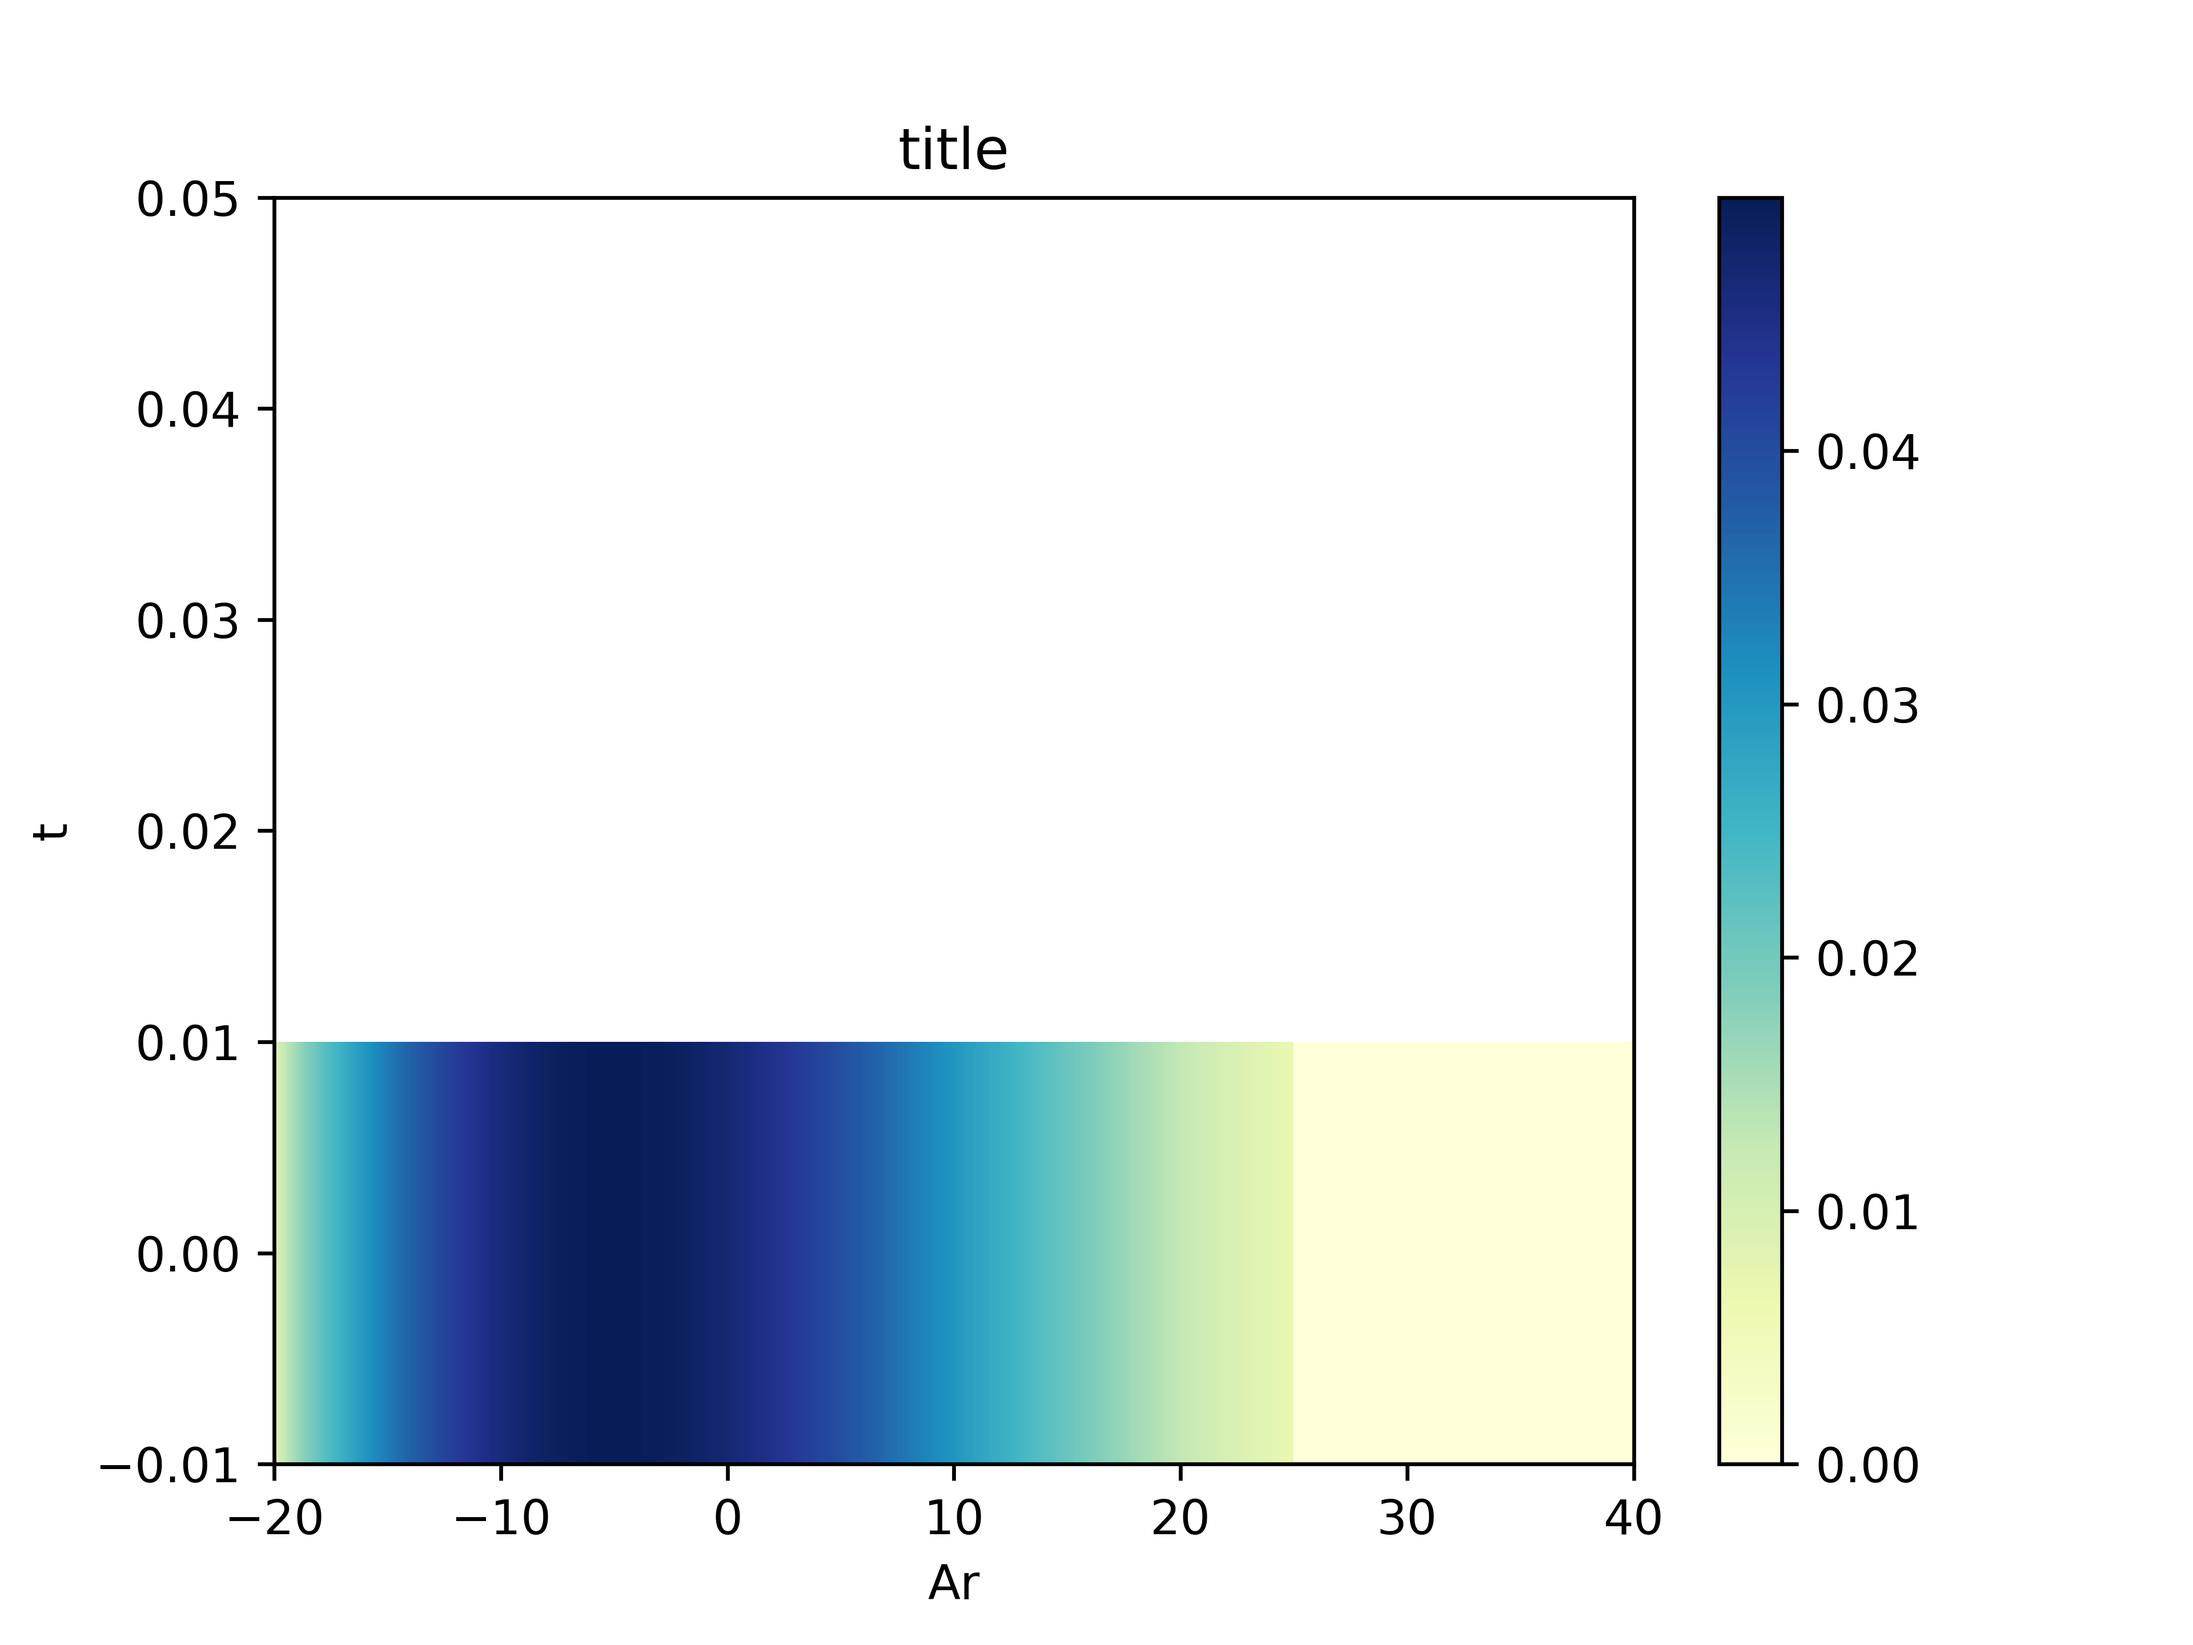
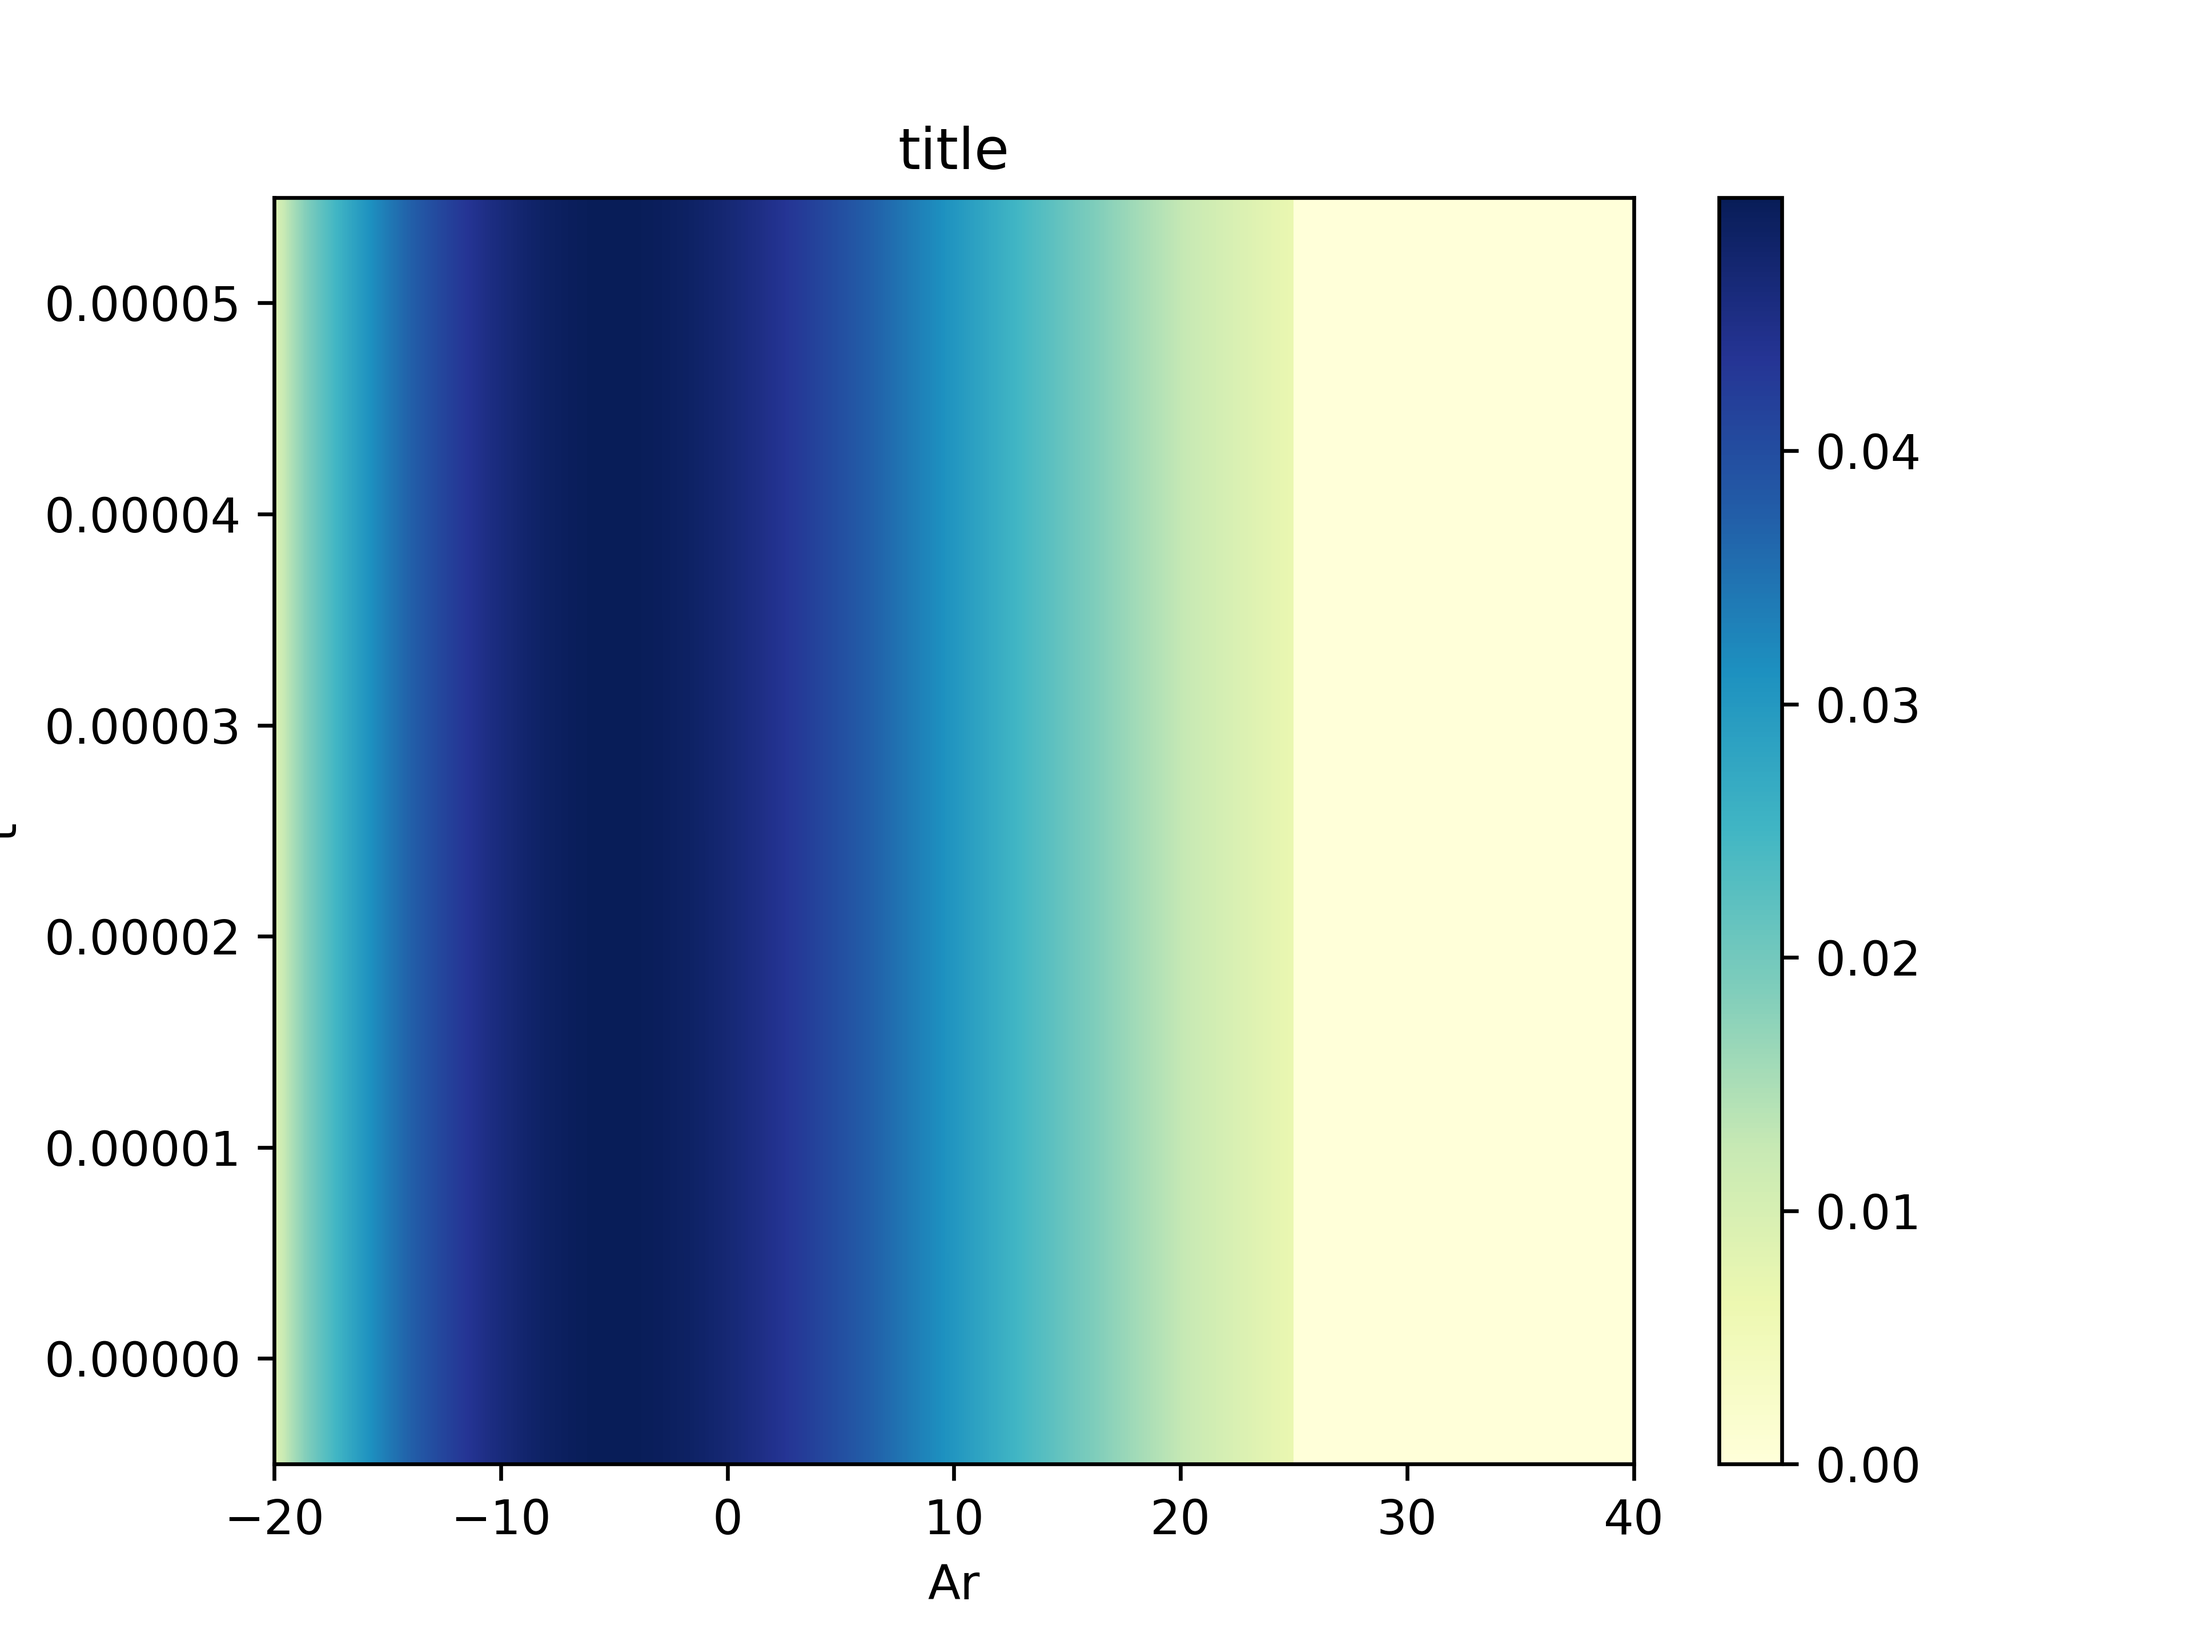
stash debug (TODO fix derivative term)

diff --git a/dedalus_progs/sutherland/1d_nonlinear.py b/dedalus_progs/sutherland/1d_nonlinear.py
@@ -15,9 +15,9 @@ K = 1
 N = 1
 ZMIN = -20 / K
 ZMAX = 40 / K
-N_X = 2048
-DX = (ZMAX - ZMIN) / N_X
-DT = 1e-3 / N
+N_Z = 2048
+DX = (ZMAX - ZMIN) / N_Z
+DT = 1e-5 / N
 
 m = -0.4 * K
 w = 0.93 * N
@@ -31,8 +31,8 @@ A = 0.05 / K
 T_F = 5 / N * 0.01
 
 # Bases and domain
-x_basis = de.Chebyshev('z', N_X, interval=(ZMIN, ZMAX))
-domain = de.Domain([x_basis], np.float64)
+z_basis = de.Chebyshev('z', N_Z, interval=(ZMIN, ZMAX))
+domain = de.Domain([z_basis], np.float64)
 
 # Problem
 problem = de.IVP(domain, variables=['Ar',  'Ai'])
@@ -47,21 +47,25 @@ problem.parameters['N'] = N
 problem.parameters['H'] = H
 problem.parameters['m'] = m
 problem.parameters['e'] = np.e
-problem.meta[:]['z']['dirichlet'] = True
-problem.add_equation('dt(Ar) = -C_G * dz(Ar) - w_mm * dz(dz(Ai)) / 2 + \
-    w_mmm * dz(dz(dz(Ar))) / 6 - K * U0 * (Ar**2 + Ai**2) * e**(z/H) * Ar + \
+print(problem.parameters)
+# 0.32 * dz(Ar) + 0.25 * dzz(Ai) - 1/3 * dzzz(Ar)
+# - 67 * (Ar^2 +Ai^2) * e^(z/10) * Ar
+# + 1/(20) * 67 * e^(z/10) * (2 * Ar * dz(Ar) + 2 * Ai * dz(Ai))
+#   * (-42 * Ar + Ai)
+problem.add_equation('dt(Ar) = -C_G * (Ar) - w_mm * ((Ai)) / 2 + \
+    w_mmm * (((Ar))) / 6 - K * U0 * (Ar**2 + Ai**2) * e**(z/H) * Ar + \
     w**2 / (2 * N**2 * K * H) * (U0 * e**(z/H) * \
-    (2 * Ar * dz(Ar) + 2 * Ai * dz(Ai))) * (3 * m * H * Ar + Ai)')
-problem.add_equation('dt(Ai) = -C_G * dz(Ai) + w_mm * dz(dz(Ar)) / 2 + \
-    w_mmm * dz(dz(dz(Ai))) / 6 + K * U0 * (Ar**2 + Ai**2) * e**(z/H) * Ai + \
+    (2 * Ar * (Ar) + 2 * Ai * (Ai))) * (3 * m * H * Ar + Ai)')
+problem.add_equation('dt(Ai) = -C_G * (Ai) + w_mm * ((Ar)) / 2 + \
+    w_mmm * (((Ai))) / 6 + K * U0 * (Ar**2 + Ai**2) * e**(z/H) * Ai + \
     w**2 / (2 * N**2 * K * H) * (U0 * e**(z/H) * \
-    (2 * Ar * dz(Ar) + 2 * Ai * dz(Ai))) * (3 * m * H * Ai - Ar)')
+    (2 * Ar * (Ar) + 2 * Ai * (Ai))) * (3 * m * H * Ai - Ar)')
 
 # Build solver
 solver = problem.build_solver(de.timesteppers.SBDF2)
 solver.stop_sim_time = T_F
 solver.stop_wall_time = 100000 # should never get hit
-solver.stop_iteration = 100000 # should never get hit
+solver.stop_iteration = 5 # should never get hit
 
 # Initial conditions
 z = domain.grid(0)
@@ -88,12 +92,11 @@ t_list = [solver.sim_time]
 # Main loop
 while solver.ok:
     solver.step(DT)
-    if solver.iteration % 20 == 0:
-        Ar.set_scales(1, keep_data=True)
-        Ai.set_scales(1, keep_data=True)
-        ar_list.append(np.copy(Ar['g']))
-        ai_list.append(np.copy(Ai['g']))
-        t_list.append(solver.sim_time)
+    Ar.set_scales(1, keep_data=True)
+    Ai.set_scales(1, keep_data=True)
+    ar_list.append(np.copy(Ar['g']))
+    ai_list.append(np.copy(Ai['g']))
+    t_list.append(solver.sim_time)
     if solver.iteration % 100 == 0:
         logger.info(
             'Iteration: %i, Time: %.3f/%3f, dt: %.3e',

diff --git a/dedalus/dedalus/core/operators.py b/dedalus/dedalus/core/operators.py
@@ -1014,6 +1014,7 @@ class PowerScalarArray(Power, FutureArray):
     def operate(self, out):
         arg0, arg1 = self.args
         np.power(arg0.value, arg1.data, out.data)
+        # print(min(out.data), max(out.data))
 
 
 class PowerFieldScalar(PowerDataScalar, FutureField):
@@ -1030,7 +1031,10 @@ class PowerFieldScalar(PowerDataScalar, FutureField):
         # Raise in grid layout
         arg0.require_grid_space()
         out.layout = self._grid_layout
+        np.seterr(all='raise')
         np.power(arg0.data, arg1.value, out.data)
+        print(arg0)
+        print('powerfieldscalar', min(arg0.data), max(arg0.data))
 
 
 class LinearOperator(Operator):
